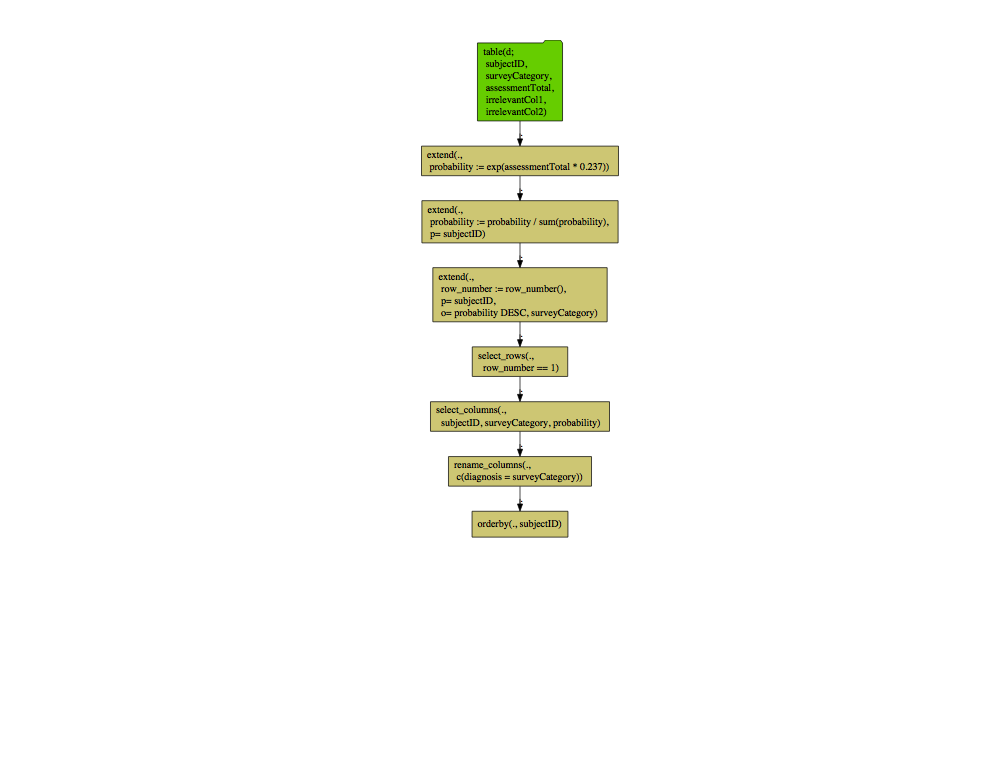
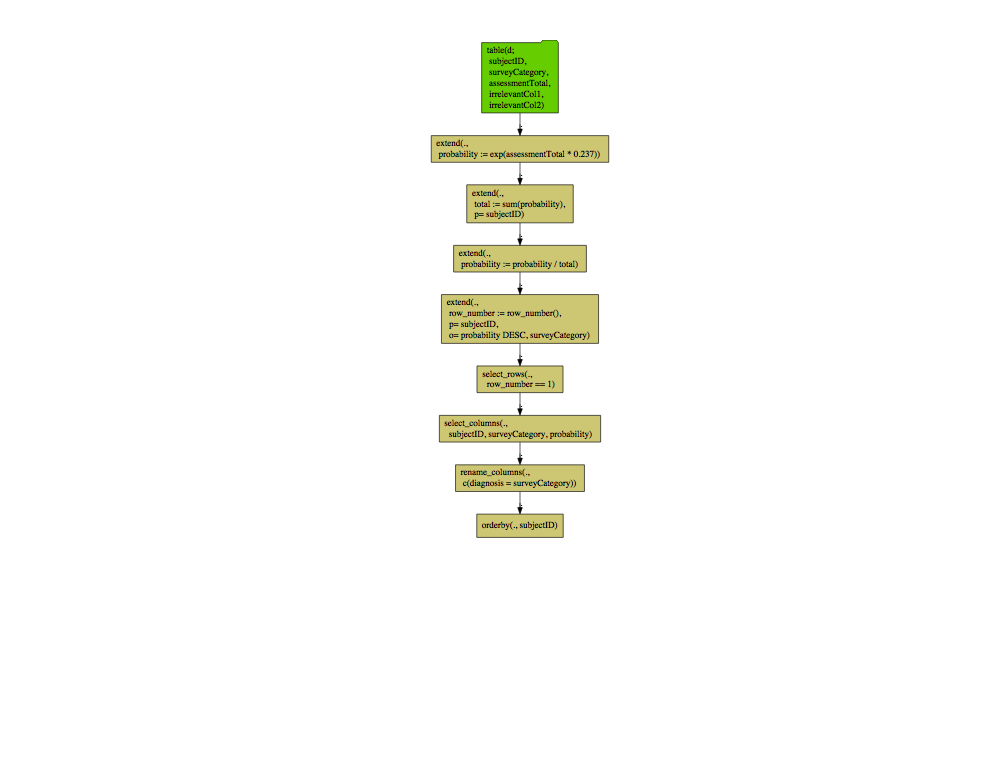
re-run on newest yaml

Changed region(s): [[0.403, 0.0625, 0.62, 0.7188]]

diff --git a/Examples/yaml/yaml.md b/Examples/yaml/yaml.md
@@ -102,8 +102,10 @@ cat(format(ops))
     ##  extend(.,
     ##   probability := exp(assessmentTotal * 0.237)) %.>%
     ##  extend(.,
-    ##   probability := probability / sum(probability),
+    ##   total := sum(probability),
     ##   p= subjectID) %.>%
+    ##  extend(.,
+    ##   probability := probability / total) %.>%
     ##  extend(.,
     ##   row_number := row_number(),
     ##   p= subjectID,
@@ -141,27 +143,34 @@ cat(to_sql(ops, rquery_default_db_info()))
     ##      SELECT
     ##       "subjectID",
     ##       "surveyCategory",
-    ##       "probability" / sum ( "probability" ) OVER (  PARTITION BY "subjectID" ) AS "probability"
+    ##       "probability" / "total"  AS "probability"
     ##      FROM (
     ##       SELECT
     ##        "subjectID",
     ##        "surveyCategory",
-    ##        exp ( "assessmentTotal" * 0.237 )  AS "probability"
+    ##        "probability",
+    ##        sum ( "probability" ) OVER (  PARTITION BY "subjectID" ) AS "total"
     ##       FROM (
     ##        SELECT
     ##         "subjectID",
     ##         "surveyCategory",
-    ##         "assessmentTotal"
-    ##        FROM
-    ##         "d"
-    ##        ) tsql_82746747808779099212_0000000000
-    ##       ) tsql_82746747808779099212_0000000001
-    ##      ) tsql_82746747808779099212_0000000002
-    ##    ) tsql_82746747808779099212_0000000003
+    ##         exp ( "assessmentTotal" * 0.237 )  AS "probability"
+    ##        FROM (
+    ##         SELECT
+    ##          "subjectID",
+    ##          "surveyCategory",
+    ##          "assessmentTotal"
+    ##         FROM
+    ##          "d"
+    ##         ) tsql_02609915120935452077_0000000000
+    ##        ) tsql_02609915120935452077_0000000001
+    ##       ) tsql_02609915120935452077_0000000002
+    ##      ) tsql_02609915120935452077_0000000003
+    ##    ) tsql_02609915120935452077_0000000004
     ##    WHERE "row_number" = 1
-    ##   ) tsql_82746747808779099212_0000000004
-    ##  ) tsql_82746747808779099212_0000000005
-    ## ) tsql_82746747808779099212_0000000006 ORDER BY "subjectID"
+    ##   ) tsql_02609915120935452077_0000000005
+    ##  ) tsql_02609915120935452077_0000000006
+    ## ) tsql_02609915120935452077_0000000007 ORDER BY "subjectID"
 
 ``` r
 d_local <- build_frame(
